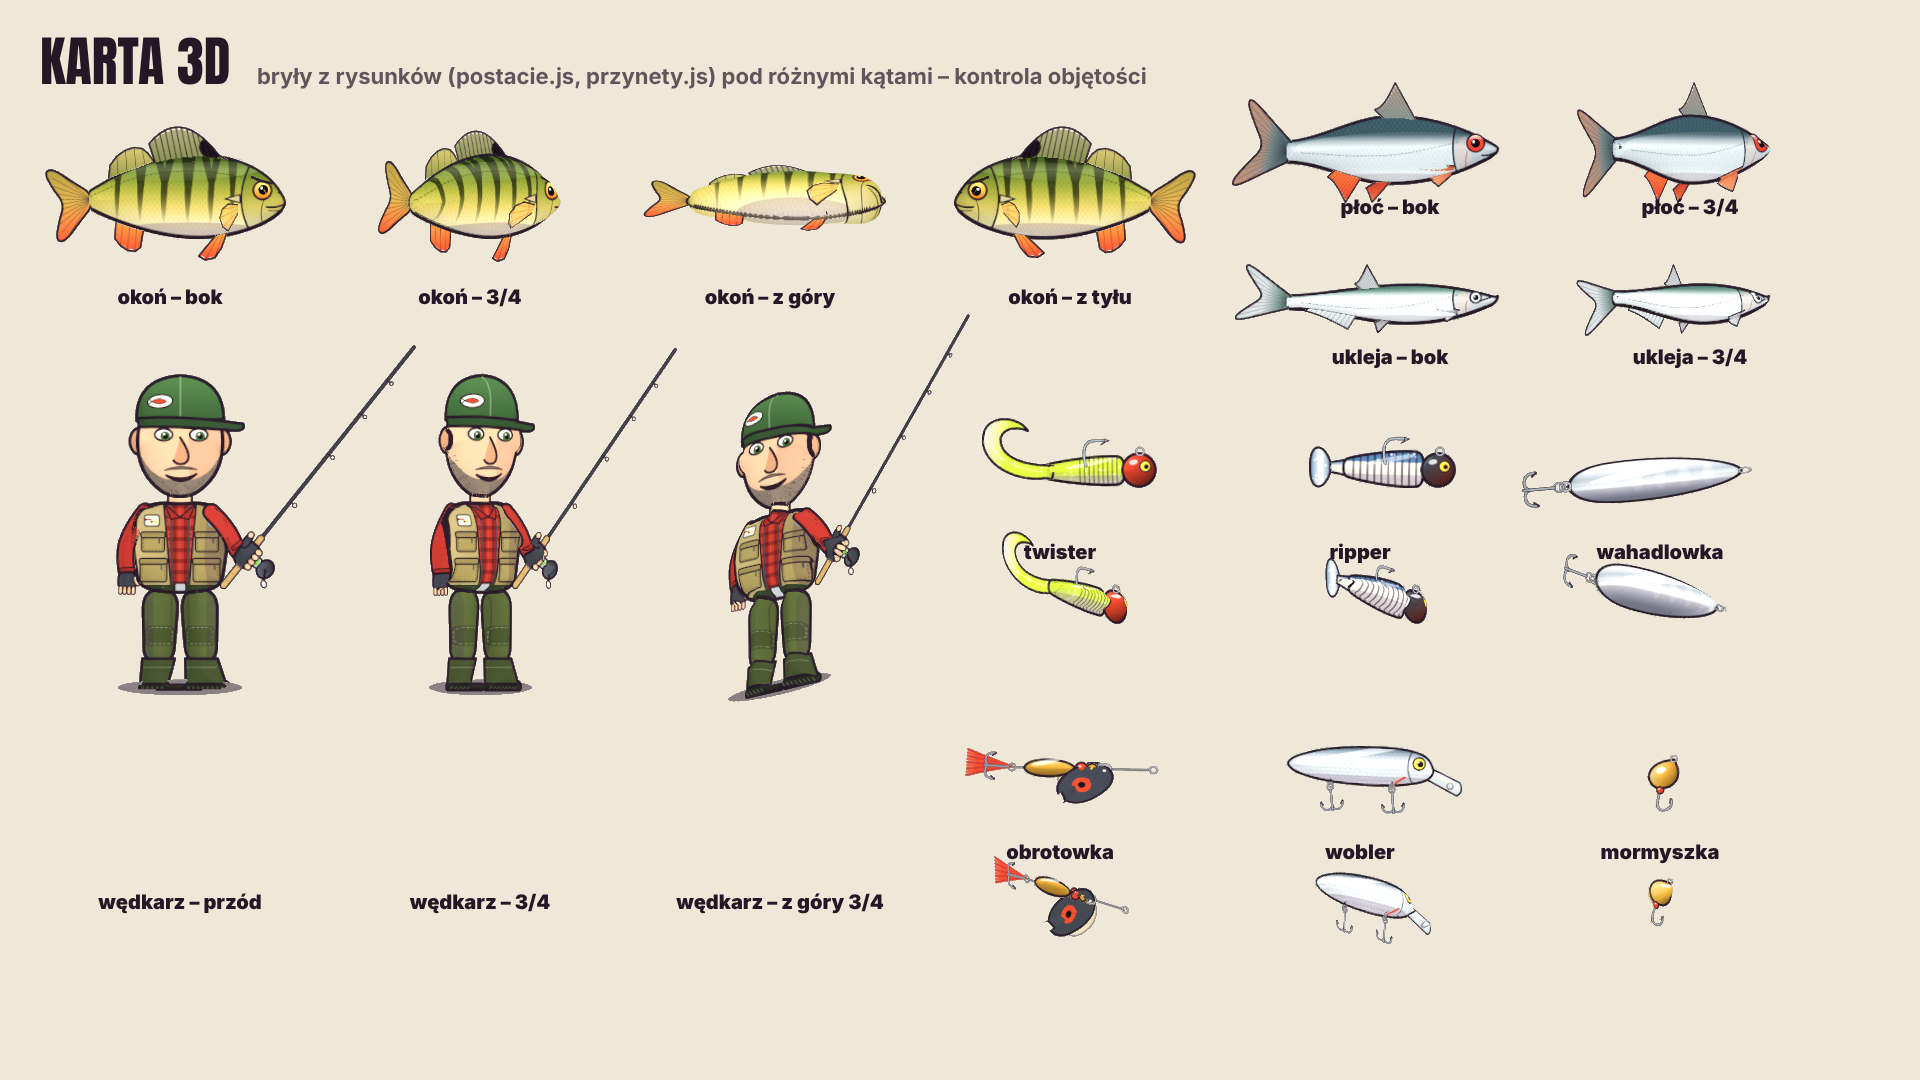
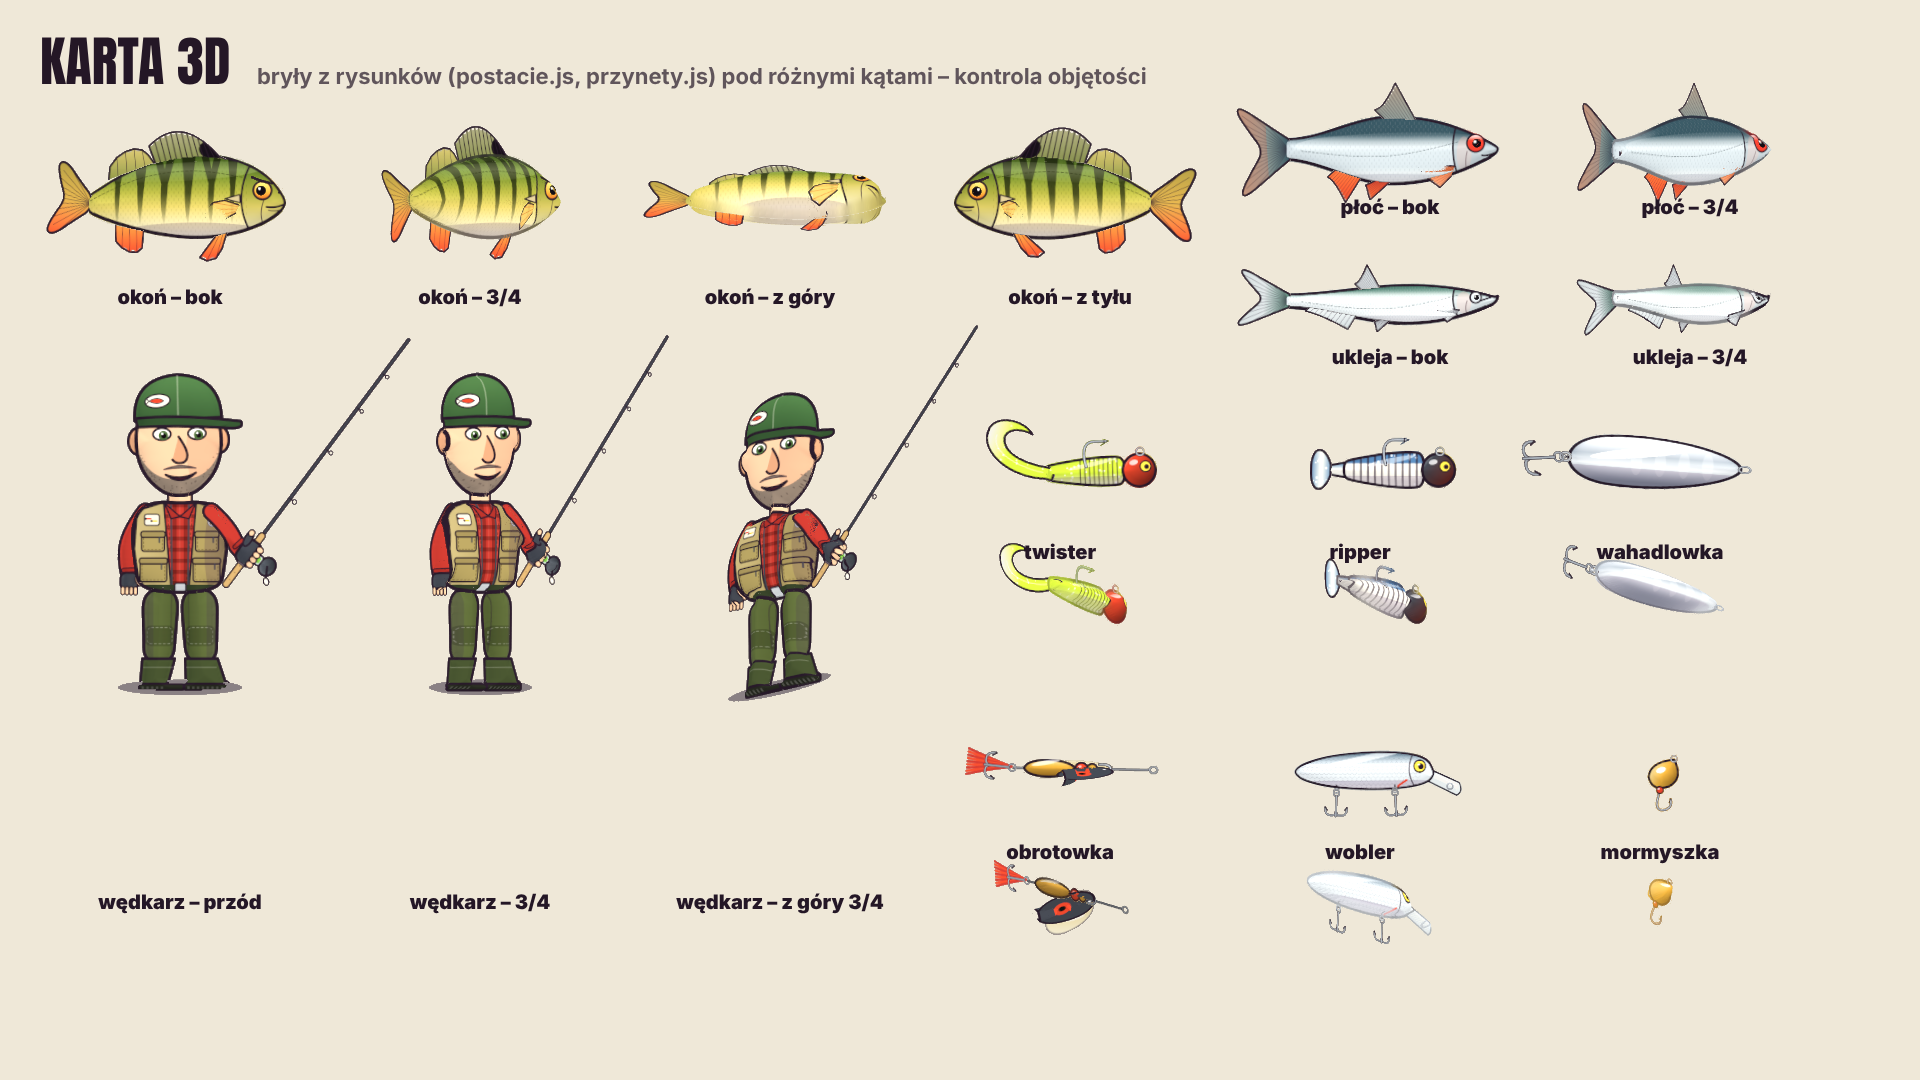
Okoń: bez pionowej kreski z przodu w scenach – shader konturu zachowany przy przygaszaniu wody (przygasWoda łączy shadery), kontur z rysunku tylko przy widoku z boku, z przodu kolor ciała; mewa gładka z obrysem
Claude-Session: https://claude.ai/code/session_01YFDAx3363ZnHR5mXZwci3a

diff --git a/atlas3d/postacie.js b/atlas3d/postacie.js
@@ -162,17 +162,22 @@ function nadmuchaj(czesci, { T, D, plaskie = [], bryla, ob = 15, wypuklosci = []
     // kontur z rysunku tylko tam, gdzie brzeg bryły jest brzegiem sylwetki (widok z boku); gdy na szew patrzymy na wprost (np. pysk z przodu),
     // kontur i jasne piksele brzegu zastępuje kolor ciała – bez pionowej kreski przez środek głowy. kontN: kierunek „na zewnątrz” konturu (w płaszczyźnie rysunku)
     if (bryla.includes(c) && bryla !== czesci && map) {
-      const cv2 = document.createElement('canvas'); cv2.width = map.image.width; cv2.height = map.image.height; cv2.getContext('2d').drawImage(map.image, 0, 0); zetrzyjKontur(cv2, Math.ceil(ob * res), null, true);
-      const mapBez = new THREE.CanvasTexture(cv2); mapBez.colorSpace = map.colorSpace; mapBez.anisotropy = map.anisotropy;
-      const P = c.geometry.attributes.position, kn = new Float32Array(P.count * 3), D0 = (x, y) => { const gx = Math.round((x - X0) * k + 1), gy = Math.round((y - Y0) * k + 1); return gx < 0 || gy < 0 || gx >= uw || gy >= uh ? 0 : Math.min(dist[gy * uw + gx], 40); };
-      for (let i = 0; i < P.count; i++) { const x = P.getX(i) / s + piwot[0], y = piwot[1] - P.getY(i) / s; let gx = 0, gy = 0; for (const r of [3, 6, 9]) { gx += D0(x + r, y) - D0(x - r, y); gy += D0(x, y + r) - D0(x, y - r); }
-        const l = Math.hypot(gx, gy); if (l > 1e-6) { kn[i * 3] = -gx / l; kn[i * 3 + 1] = gy / l; } }
-      c.geometry.setAttribute('kontN', new THREE.BufferAttribute(kn, 3));
+      const cv2 = document.createElement('canvas'); cv2.width = map.image.width; cv2.height = map.image.height; cv2.getContext('2d').drawImage(map.image, 0, 0); zetrzyjKontur(cv2, Math.ceil(34 * res), null, true);
+      const cv3 = document.createElement('canvas'); cv3.width = cv2.width; cv3.height = cv2.height; const g3 = cv3.getContext('2d'); g3.filter = `blur(${Math.round(14 * res)}px)`; g3.drawImage(cv2, 0, 0);   // sam kolor ciała, bez kresek i odblasków
+      {   // kanał alfa mapBez = waga pasa przy konturze (1 przy brzegu → 0 w głębi rysunku): tylko tam kolor ciała zastępuje rysunek
+        const W = cv3.width, Hh = cv3.height, src = map.image.getContext('2d').getImageData(0, 0, W, Hh).data, im = g3.getImageData(0, 0, W, Hh), d = im.data, N = W * Hh, S = 34 * res;
+        const dist = new Float32Array(N).fill(1e9), q = new Int32Array(N); let h = 0, t = 0;
+        for (let i = 0; i < N; i++) if (src[i * 4 + 3] < 128) { dist[i] = 0; q[t++] = i; }
+        while (h < t) { const i = q[h++], x = i % W, y = (i / W) | 0, nd = dist[i] + 1; if (nd > S) continue;
+          for (const [dx, dy] of [[1, 0], [-1, 0], [0, 1], [0, -1]]) { const xx = x + dx, yy = y + dy; if (xx < 0 || yy < 0 || xx >= W || yy >= Hh) continue; const j = yy * W + xx; if (dist[j] > nd) { dist[j] = nd; q[t++] = j; } } }
+        for (let i = 0; i < N; i++) { const u = Math.min(1, Math.max(0, (dist[i] - .55 * S) / (.45 * S))); d[i * 4 + 3] = Math.round(255 * (1 - u * u * (3 - 2 * u))); }
+        g3.putImageData(im, 0, 0); }
+      const mapBez = new THREE.CanvasTexture(cv3); mapBez.premultiplyAlpha = false; mapBez.colorSpace = map.colorSpace; mapBez.anisotropy = map.anisotropy;
       c.material.onBeforeCompile = sh => { sh.uniforms.mapBez = { value: mapBez };
-        sh.vertexShader = 'attribute vec3 kontN;\nvarying vec3 vKontN;\n' + sh.vertexShader.replace('#include <begin_vertex>', '#include <begin_vertex>\n  vKontN = normalMatrix * kontN;');
-        sh.fragmentShader = 'uniform sampler2D mapBez;\nvarying vec3 vKontN;\n' + sh.fragmentShader
-          .replace('#include <map_fragment>', 'vec3 vDirK = isOrthographic ? vec3(0., 0., 1.) : normalize(vViewPosition);\nfloat fKont = length(vKontN) > .01 ? smoothstep(.55, .92, abs(dot(normalize(vKontN), vDirK))) : 0.;\nvec4 kOryg = texture2D(map, vMapUv), kBez = texture2D(mapBez, vMapUv);\n#ifdef USE_MAP\n  vec4 sampledDiffuseColor = vec4(mix(kOryg.rgb, kBez.rgb, max(fKont, 1. - kOryg.a)), mix(kOryg.a, 1., fKont));\n  diffuseColor *= sampledDiffuseColor;\n#endif')
-          .replace('vec4 emissiveColor = texture2D( emissiveMap, vEmissiveMapUv );', 'vec4 emissiveColor = vec4(mix(kOryg.rgb, kBez.rgb, max(fKont, 1. - kOryg.a)), 1.);'); };
+        sh.vertexShader = 'varying vec3 vBokK;\n' + sh.vertexShader.replace('#include <begin_vertex>', '#include <begin_vertex>\n  vBokK = normalize(normalMatrix * vec3(0., 0., 1.));');
+        sh.fragmentShader = 'uniform sampler2D mapBez;\nvarying vec3 vBokK;\n' + sh.fragmentShader
+          .replace('#include <map_fragment>', 'vec3 vDirK = isOrthographic ? vec3(0., 0., 1.) : normalize(vViewPosition);\nfloat fKont = 1. - smoothstep(.5, .85, abs(dot(normalize(vBokK), vDirK)));\nvec4 kOryg = texture2D(map, vMapUv), kBez = texture2D(mapBez, vMapUv);\n#ifdef USE_MAP\n  fKont *= kBez.a;\n  vec4 sampledDiffuseColor = vec4(mix(kOryg.rgb, kBez.rgb, max(fKont, 1. - kOryg.a)), kOryg.a);\n  diffuseColor *= sampledDiffuseColor;\n#endif')
+          .replace('#include <emissivemap_fragment>', '#ifdef USE_EMISSIVEMAP\n  totalEmissiveRadiance *= mix(kOryg.rgb, kBez.rgb, max(fKont, 1. - kOryg.a));\n#endif'); };
       c.material.customProgramCacheKey = () => 'bezKonturuZPrzodu';
     }   // bryła: kształt wyznacza siatka, bez dziur przy brzegu (przez dziury prześwitywał czarny kontur)
     // kontur bryły (odwrócona otoczka): czarna skorupa widoczna tylko na krawędzi sylwetki pod każdym kątem; wspólna geometria – podąża za falą ciała

diff --git a/atlas3d/silnik.js b/atlas3d/silnik.js
@@ -125,11 +125,12 @@ const ikra = wys => karta(g => { R = rnd(3);
 // zewnętrzna grupa = billboard (obrót w poziomie do kamery), wewnętrzna = postać (scale.x = ±1: kierunek)
 // widziane znad wody: kolor przechodzi w kolor wody tym mocniej, im głębiej leży punkt (pal przy tafli prawie bez zmian, przy dnie mocno przygaszony)
 const WODA_NAD = { value: 0 }, WODA_KOL = { value: new THREE.Color('#2f8f9e') };
-function przygasWoda(mt) { mt.onBeforeCompile = sh => { sh.uniforms.uNad = WODA_NAD; sh.uniforms.uWodaK = WODA_KOL;
+function przygasWoda(mt) { const wczesniej = mt.onBeforeCompile, kluczW = mt.customProgramCacheKey !== THREE.Material.prototype.customProgramCacheKey ? mt.customProgramCacheKey() : '';   // zachowaj shader materiału (np. kontur ryby zależny od kąta)
+  mt.onBeforeCompile = (sh, r) => { if (wczesniej) wczesniej(sh, r); sh.uniforms.uNad = WODA_NAD; sh.uniforms.uWodaK = WODA_KOL;
     sh.vertexShader = sh.vertexShader.replace('void main() {', 'varying float vWy;\nvoid main() {').replace('#include <project_vertex>', '#include <project_vertex>\n  vWy = (modelMatrix * vec4(transformed, 1.)).y;');
     sh.fragmentShader = sh.fragmentShader.replace('void main() {', 'uniform float uNad; uniform vec3 uWodaK; varying float vWy;\nvoid main() {')
       .replace('#include <opaque_fragment>', '#include <opaque_fragment>\n  gl_FragColor.rgb = mix(gl_FragColor.rgb, uWodaK, uNad * step(vWy, -.02) * clamp(.3 + max(0., -vWy) * .16, 0., .82));'); };
-  mt.customProgramCacheKey = () => 'przygasWoda'; }
+  mt.customProgramCacheKey = () => 'przygasWoda' + kluczW; }
 function owin(grp, kier = 1) { grp.traverse(o => { if (o.isMesh && o.material && !o.userData.otoczka) przygasWoda(o.material); }); const b = new THREE.Group(); grp.rotation.y = kier < 0 ? Math.PI : 0; b.add(grp); b.userData.wnetrze = grp; b.userData.pion = true; return b; }
 const okon = (wys, o = {}) => { const g = stworzOkonia({ wys, mina: o.mina }); const b = owin(g, o.lewo ? -1 : 1), s = wys / 560;
   b.userData.ryba = { kier: o.lewo ? -1 : 1, wys, dl: wys * 1.75, anim: g.userData.okon.anim, st: o.st || {},
@@ -805,6 +806,7 @@ window.zdarzeniaAudio = () => {
 window.tloAudio = () => CFG.tlo(numer);
 window.scena = (n, t) => { window.zbuduj(n); window.klatka(t ?? DLUGOSC - .3); };
 // narzędzie kontrolne: rzut punktu świata na ekran (x, y w zakresie -1…1 = w kadrze)
+window.__scena = () => ({ scene, camera });   // diagnostyka (testy kadrów)
 window.rzut = (x, y, z) => { const v = new THREE.Vector3(x, y, z).project(camera); return [+v.x.toFixed(2), +v.y.toFixed(2)]; };
 window.teren = (x, z) => +TEREN(x, z).toFixed(2);
 // diagnostyka kadru: każdy element sceny (ryby, postacie, assety, przynęty na żyłce) z pozycją na ekranie
